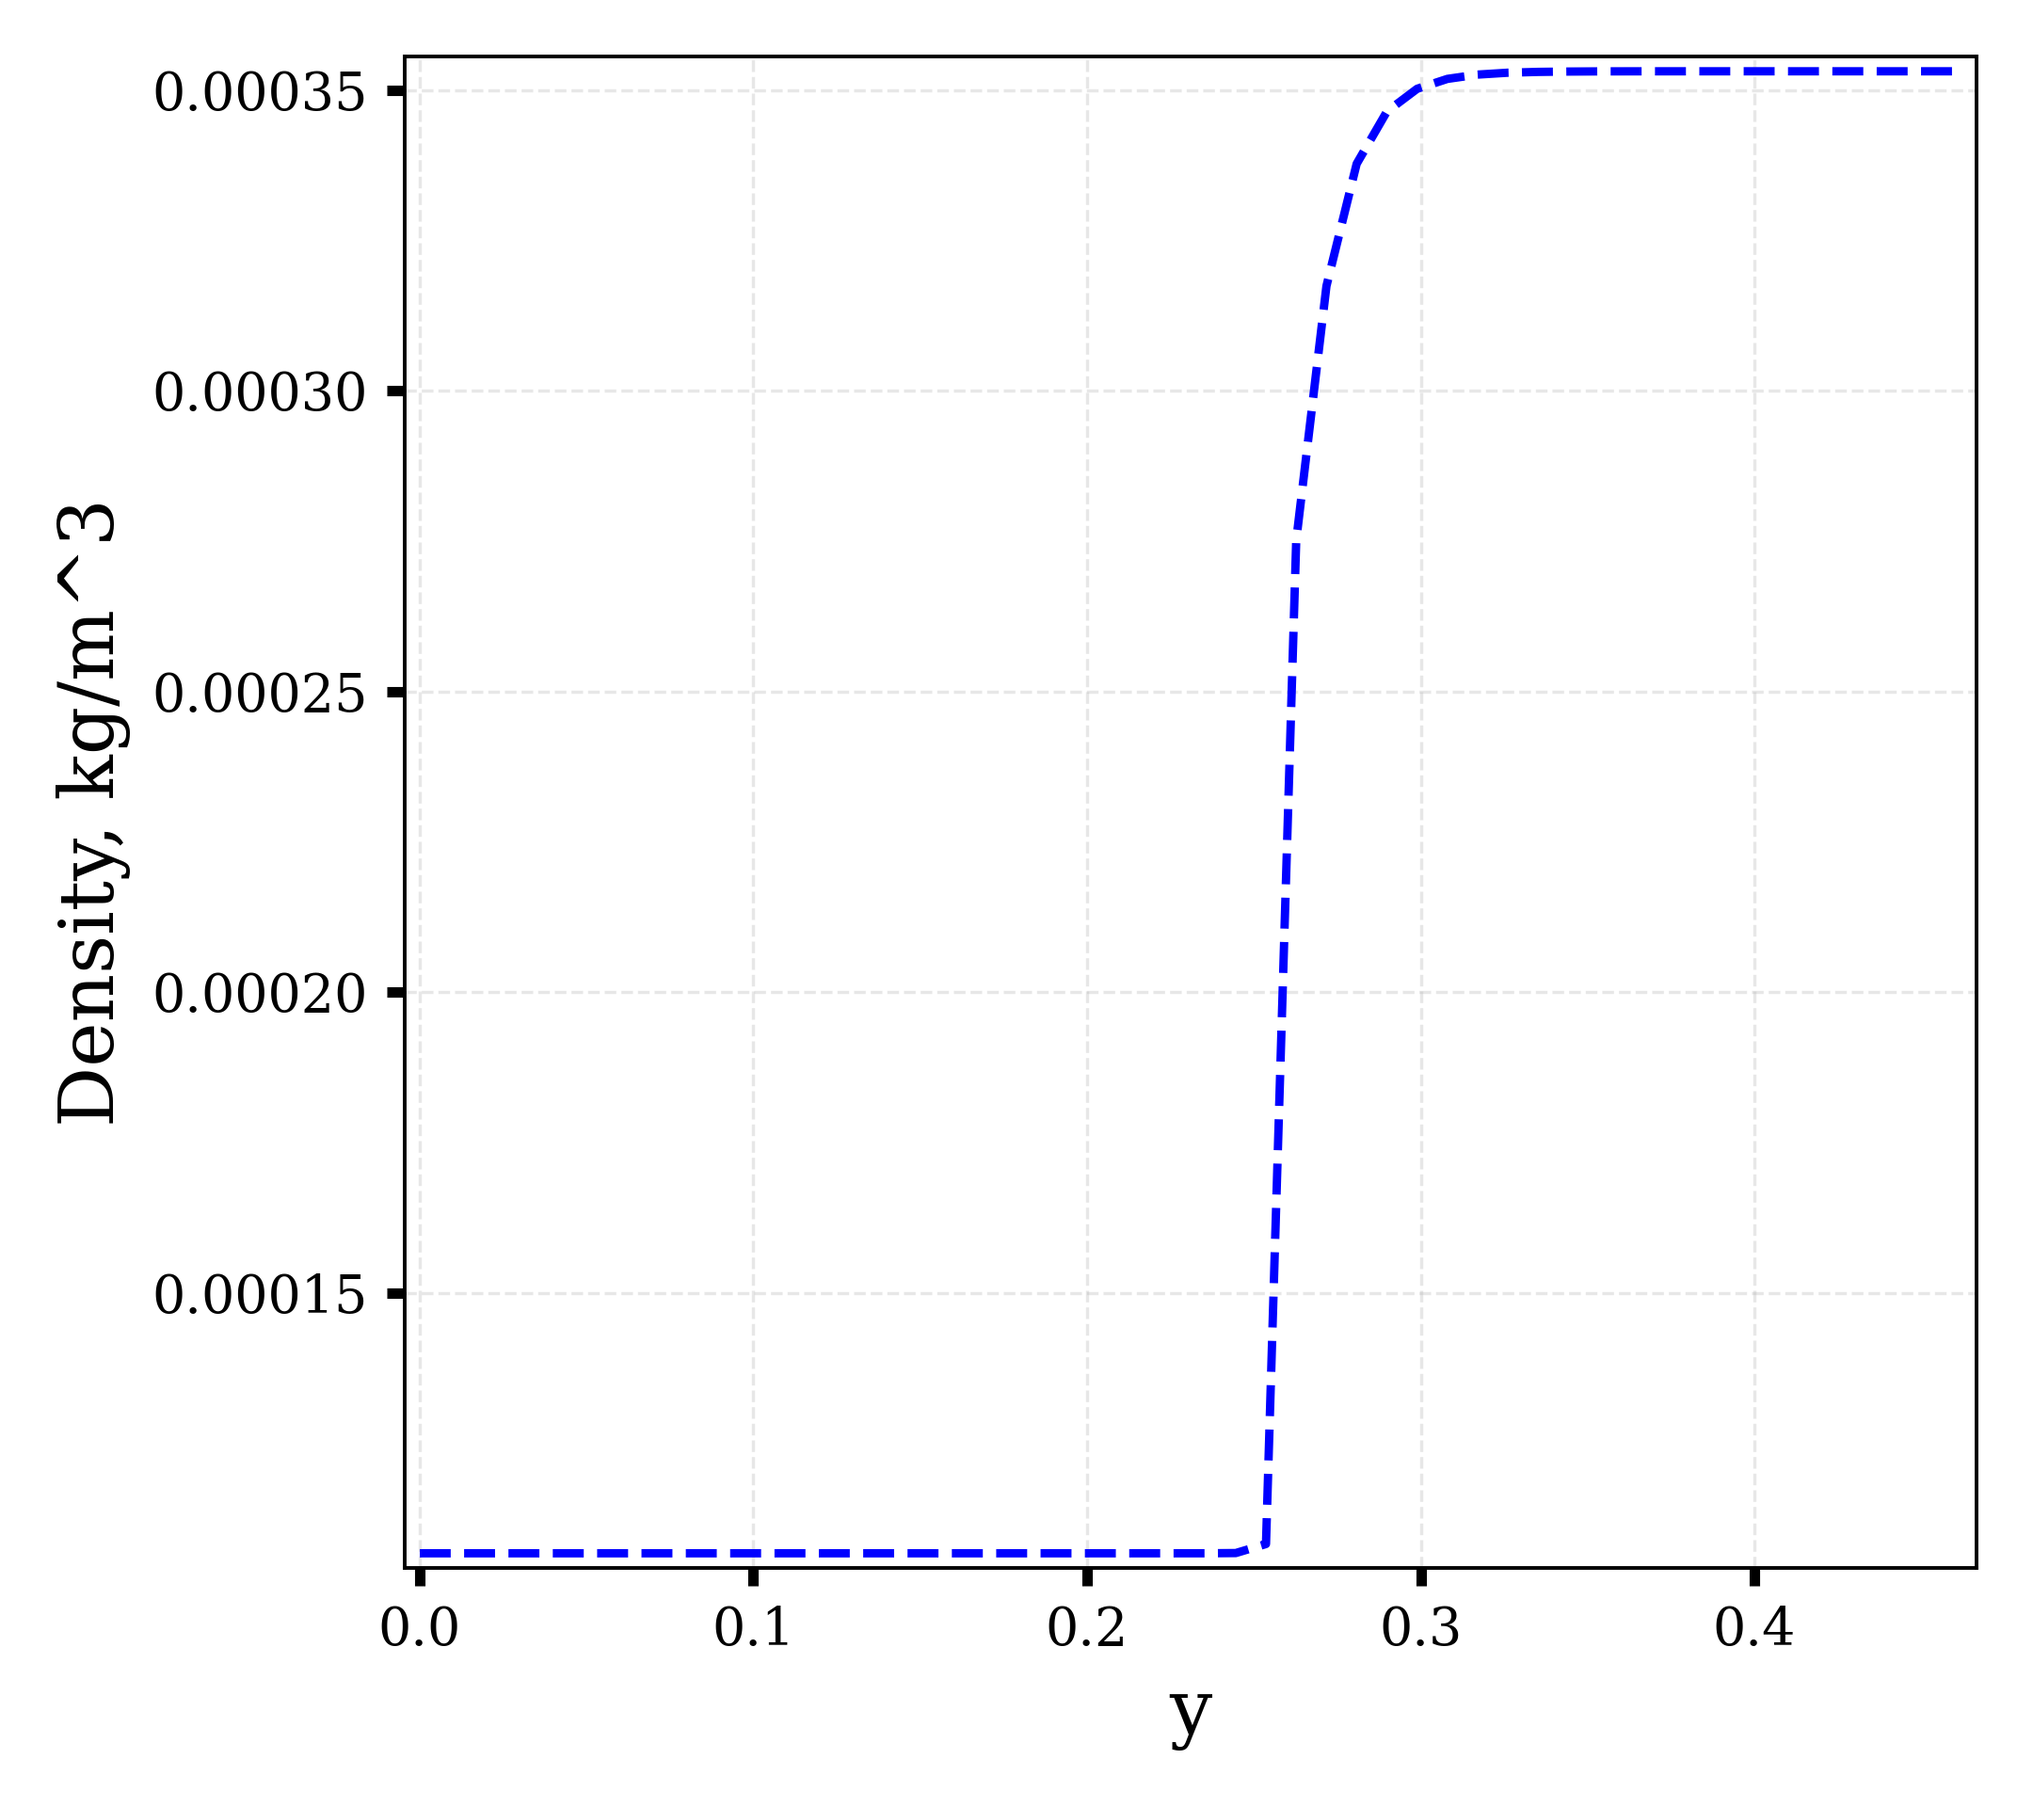
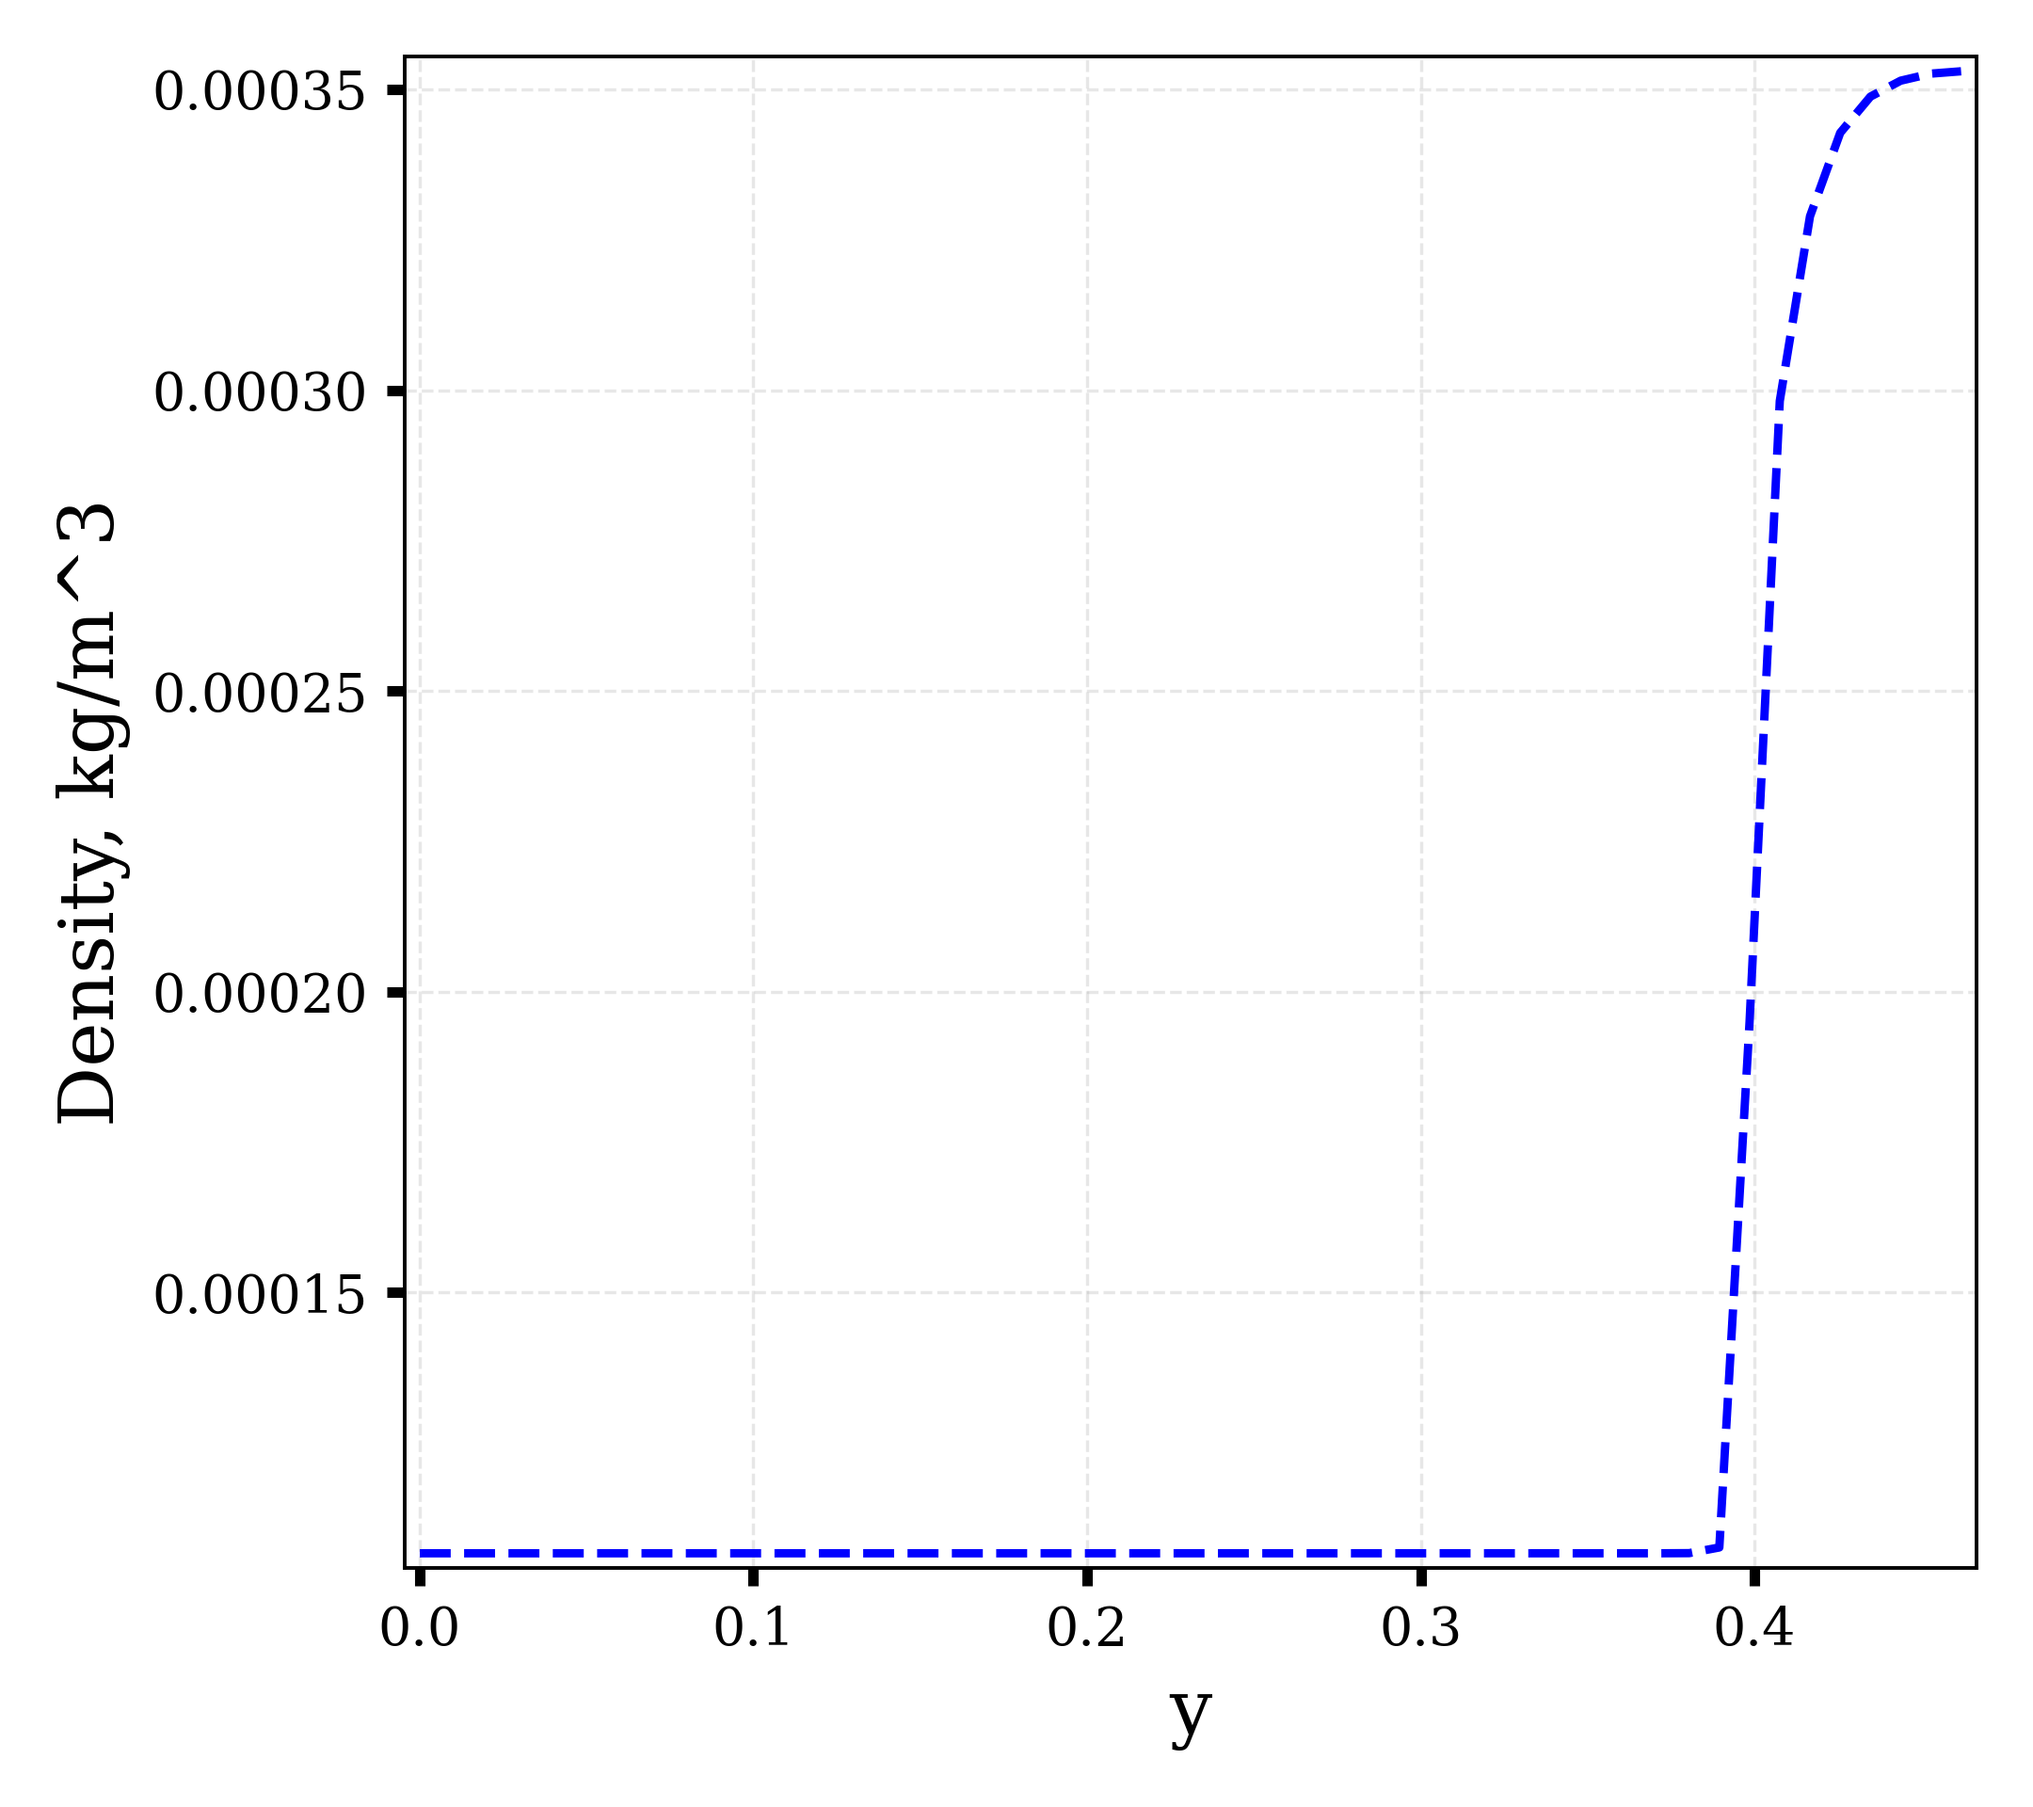
changed BCs

diff --git a/src/bordercondition.cpp b/src/bordercondition.cpp
@@ -99,7 +99,8 @@ void BorderConditionShockwave::updatePoints(vector<macroParam>& points)
 {
     size_t N = points.size();
 
-    points[0].velocity_normal = points[1].velocity_normal;
+    // points[0].velocity_normal = points[1].velocity_normal;
+    points[0].velocity_normal = left_velocity;
     points[0].velocity_tau = 0;
     points[0].velocity = points[0].velocity_normal;
 
@@ -107,20 +108,27 @@ void BorderConditionShockwave::updatePoints(vector<macroParam>& points)
     points[0].densityArray = points[1].densityArray;
     points[0].fractionArray = points[1].fractionArray;
 
-    points[0].pressure = points[1].pressure;
-    points[0].density = points[1].density;
-    points[0].temp = points[0].pressure * mixture.molarMass(points[0].fractionArray) / (points[0].density * UniversalGasConstant); // из уравнения состояния ид газа
+    // points[0].pressure = points[1].pressure;
+    // points[0].density = points[1].density;
+    points[0].density = left_density;
+    // points[0].temp = points[0].pressure * mixture.molarMass(points[0].fractionArray) / (points[0].density * UniversalGasConstant); // из уравнения состояния ид газа
+    points[0].temp = left_temp;
+    points[0].pressure = points[0].density * UniversalGasConstant * points[0].temp / mixture.molarMass(points[0].fractionArray);
 
-    points[N-1].velocity_normal = points[N-2].velocity_normal;
+    // points[N-1].velocity_normal = points[N-2].velocity_normal;
+    points[N-1].velocity_normal = right_velocity;
     points[N-1].velocity_tau = 0;
     points[N-1].velocity = points[N-1].velocity_normal;
 
-    Mixture mixture2 = points[N-2].mixture;
+    // Mixture mixture2 = points[N-2].mixture;
     points[N-1].densityArray = points[N-2].densityArray;
     points[N-1].fractionArray = points[N-2].fractionArray;
 
-    points[N-1].pressure = points[N-2].pressure;
-    points[N-1].density = points[N-2].density;
-    points[N-1].temp = points[N-1].pressure * mixture2.molarMass(points[N-1].fractionArray) / (points[N-1].density * UniversalGasConstant); // из уравнения состояния ид газа
+    // points[N-1].pressure = points[N-2].pressure;
+    // points[N-1].density = points[N-2].density;
+    points[N-1].density = right_density;
+    // points[N-1].temp = points[N-1].pressure * mixture2.molarMass(points[N-1].fractionArray) / (points[N-1].density * UniversalGasConstant); // из уравнения состояния ид газа
+    points[N-1].temp = right_temp;
+    points[N-1].pressure = points[N-1].density * UniversalGasConstant * points[N-1].temp / mixture.molarMass(points[N-1].fractionArray) ;
 
 }

diff --git a/example-shockwave/shockwave-solver-lib_main.cpp b/example-shockwave/shockwave-solver-lib_main.cpp
@@ -125,7 +125,7 @@ int main()
     // solParam.Gamma    = 1.32;   // O2_O
     solParam.CFL      = 0.9;    // Число Куранта
     solParam.MaxIter     = 10000000; // максимальное кол-во итареций
-    solParam.Ma       = 3.8;    // Число маха
+    solParam.Ma       = 3.8;    // Число Маха
 
     double precision = 1E-7; // точность
     Observer watcher(precision);

diff --git a/src/godunovsolver.cpp b/src/godunovsolver.cpp
@@ -43,7 +43,7 @@ void GodunovSolver::solve()
         //writePoints(T*1000000); // микросек
 
         double max;
-        if(i%1000 == 0)
+        if(i%10000 == 0)
         {
             std::cout<<i<<" iteration"<<std::endl;
             writePoints(T*1000000); // микросек
